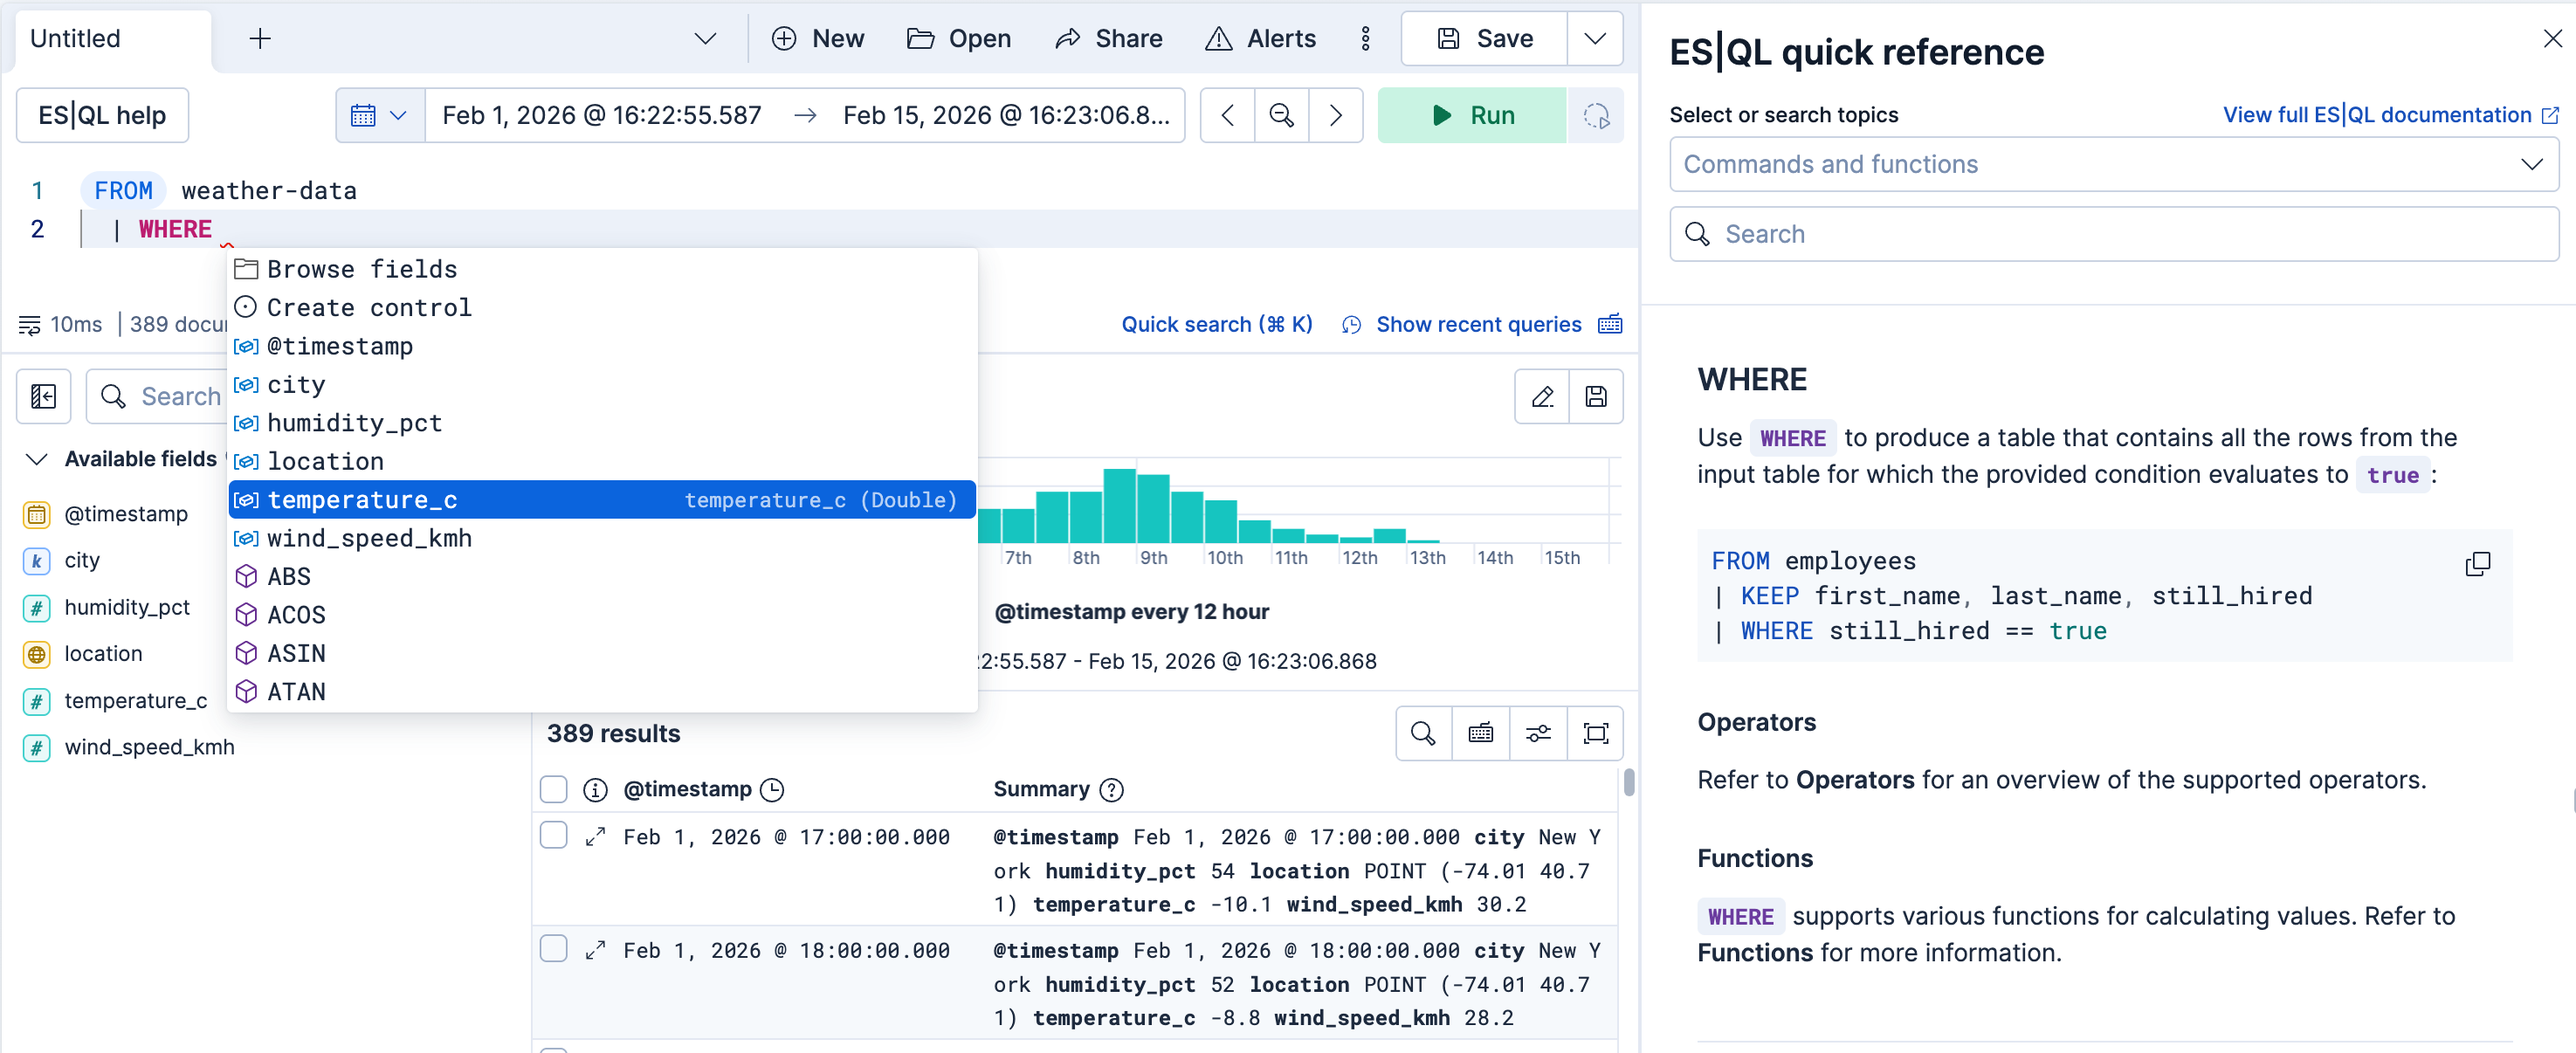
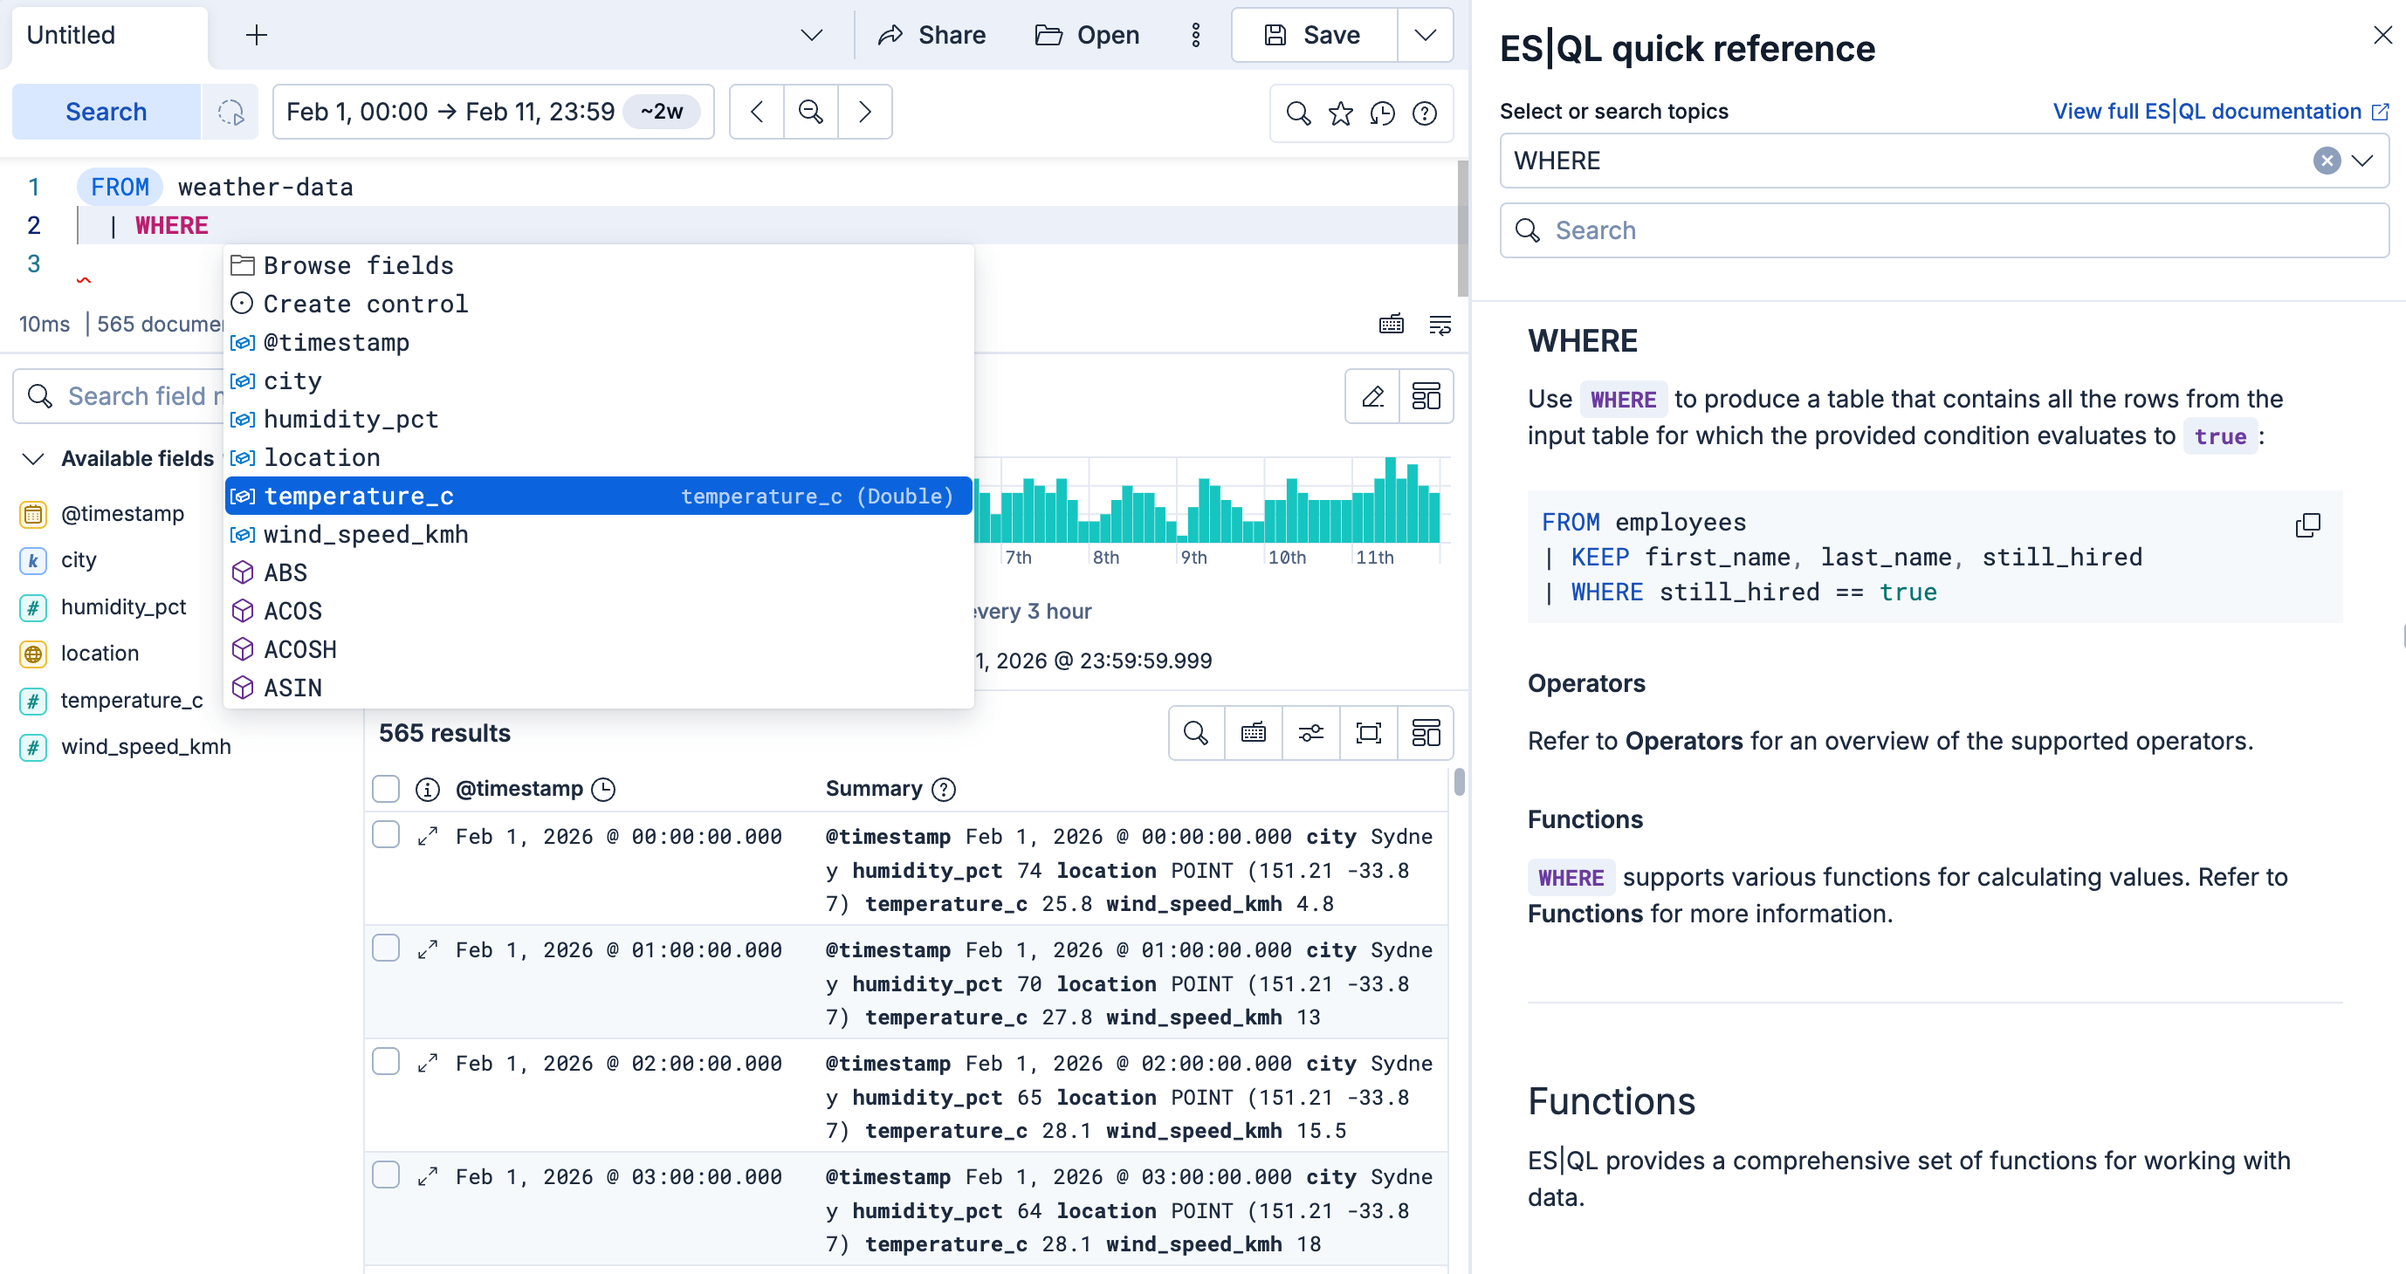
docs(esql-editor): refresh editor screenshots for the redesigned UI (#5707) (#6088)
## Summary

Closes [issue
#5707](https://github.com/elastic/docs-content/issues/5707) (ES|QL
editor redesign).

After investigating the redesign, the only user-facing changes worth
documenting are visual: the editor toolbar, the new menu
(search/star/history/help), and the relocated date picker and run
button. None of those changes affect the underlying workflows already
described in the docs, so this PR limits itself to refreshing the
affected screenshots and a small related fix.

This does not update every single screenshot that shows the editor -
other targeted updates will happen on other pages that contain ES|QL
editors (like the ES|QL viz one) separately when it'll be more timely to
do that.

### Changes

- `explore-analyze/query-filter/languages/esql-kibana.md`
- Replace the prettify, quick search, and "manage queries" GIFs with new
captures of the redesigned editor.
- Replace the in-app help screenshot with a fresh capture (full Discover
view + autocomplete + ES|QL quick reference flyout).
- `explore-analyze/_snippets/variable-control-procedure.md`
  - Replace the variable control autocomplete suggestion screenshot.
- Mention `MV_INTERSECTS` alongside `MV_CONTAINS` in the multi-value
controls description so users know both functions are supported.
- `explore-analyze/discover/try-esql.md`
- Remove the tutorial and time-series screenshots that no longer match
the current Discover layout. The screenshot under the variable controls
section is kept.

### Out of scope
[…]

diff --git a/explore-analyze/discover/try-esql.md b/explore-analyze/discover/try-esql.md
@@ -51,7 +51,6 @@ For the complete {{esql}} documentation, including all supported commands, funct
    ::::
 
 5. Select **Search** (or **▶Run** in earlier versions).
-   ![An image of the query result](/explore-analyze/images/kibana-esql-machine-os-ram.png "")
 
 Let’s add `geo.dest` to our query to find out the geographical destination of the visits and limit the results.
 
@@ -67,7 +66,6 @@ Let’s add `geo.dest` to our query to find out the geographical destination of 
    ::::{note}
    When you don’t specify any specific fields to retain using `KEEP`, the visualization isn’t broken down automatically. Instead, an additional option appears above the visualization and lets you select a field manually.
    ::::
-   ![An image of the extended query result](/explore-analyze/images/kibana-esql-limit.png "")
 
 
 We will now take it a step further to sort the data by machine RAM and filter out the `GB` destination.
@@ -83,8 +81,6 @@ We will now take it a step further to sort the data by machine RAM and filter ou
     ```
 
 2. Select **Search** (or **▶Run** in earlier versions) again. The table and visualization no longer show results for which the `geo.dest` field value is "GB", and the results are now sorted in descending order in the table based on the `machine.ram` field.
-
-    ![An image of the full query result](/explore-analyze/images/kibana-esql-full-query.png "")
 
 3. Click **Save** to save the query and visualization to a dashboard.
 
@@ -174,20 +170,12 @@ FROM kibana_sample_data_ecommerce
 | KEEP customer_first_name, email, products._id.keyword
 ```
 
-:::{image} /explore-analyze/images/kibana-esql-no-time-series.png
-:alt: ESQL query without time series capabilities enabled
-:::
-
 While still querying the same data set, by adding the `?_tstart` and `?_tend` parameters based on the `order_date` field, **Discover** enables times series capabilities.
 
 ```esql
 FROM kibana_sample_data_ecommerce
 | WHERE order_date >= ?_tstart and order_date <= ?_tend
 ```
-
-:::{image} /explore-analyze/images/kibana-esql-custom-time-series.png
-:alt: ESQL query with a custom time field enabled
-:::
 
 ## Create and edit lookup indices from queries [discover-esql-lookup-join]
 ```{applies_to}
@@ -385,8 +373,6 @@ You can go back to the classic data view and KQL mode in Discover at any time. W
 1. Open the Discover tab that you want to switch to classic mode.
 
 2. From your tab's contextual menu, select **Switch to classic**. This affects only the selected Discover tab.
-
-![Tab contextual menu with an option to switch from {{esql}} to classic mode](/explore-analyze/images/discover-switch-to-classic.png "=30%")
 
 :::{tip}
 The **Switch to classic** option only appears for the currently active tab. To see it for another tab, you must load that tab first.

diff --git a/explore-analyze/query-filter/languages/esql-kibana.md b/explore-analyze/query-filter/languages/esql-kibana.md
@@ -71,10 +71,7 @@ The {{esql}} editor includes several built-in tools to help you write queries ef
 
 For readability, you can put each processing command on a new line and add indentation. Use the {icon}`pipeBreaks` **Prettify query** button from the query editor's footer to format your query automatically. You can also adjust the editor's height by dragging its bottom border.
 
-:::{image} /explore-analyze/images/esql-line-breakdown.gif
-:alt: Automatic line breaks and indentation for ES|QL queries
-:width: 75%
-:::
+![Automatic line breaks and indentation for ES|QL queries](https://images.contentstack.io/v3/assets/bltefdd0b53724fa2ce/bltb7c28c7b10f58b68/69ebb4e4a7cffb580c9a34c5/prettify-esql.gif "=75%")
 
 #### Warnings [_warnings]
 
@@ -119,7 +116,7 @@ You can use the **Quick search** functionality of the {{esql}} editor to transla
 
 5. Refine your query with any other {{esql}} command or function that you need.
 
-![Quick search bar in the ES|QL editor](https://images.contentstack.io/v3/assets/bltefdd0b53724fa2ce/bltc8165d27051bdac3/6997303fcf7e250008e681d8/esql-quick-search.gif "=60%")
+![Quick search bar in the ES|QL editor](https://images.contentstack.io/v3/assets/bltefdd0b53724fa2ce/bltc3b8614d0ecabbd9/69ebb647065c54efe579b251/esql-quick-search-kql.gif "=60%")
 
 
 ### Commands with additional editor support
@@ -231,7 +228,7 @@ serverless: preview
 
 The {{esql}} editor keeps track of your queries so you can reuse and organize them.
 
-![ES|QL editor query history and starred queries](https://images.contentstack.io/v3/assets/bltefdd0b53724fa2ce/blt2d3183eafde13ca0/699889744357070008f66a99/query_history_starred.gif "=60%")
+![ES|QL editor query history and starred queries](https://images.contentstack.io/v3/assets/bltefdd0b53724fa2ce/blt2446c9af9847b87e/69ebb870086ade348a1acc35/esql-recent-starred.gif "=60%")
 
 ### Query history [esql-kibana-query-history]
 

diff --git a/explore-analyze/_snippets/variable-control-procedure.md b/explore-analyze/_snippets/variable-control-procedure.md
@@ -15,7 +15,7 @@
       * {applies_to}`stack: ga 9.1` Start the name with `??` if you want the options to be fields or functions.
     * The values users can select for this control. You can add multiple values from suggested fields, or type in custom values. If you selected **Values from a query**, you must instead write an {{esql}} query at this step.
     * The label of the control. This is the label displayed in **Discover** or in the dashboard.
-    * {applies_to}`stack: ga 9.4` {applies_to}`serverless: ga` Whether the control should allow selecting a single value or multiple values. This [requires using the `MV_CONTAINS` function in your query](#esql-multi-values-controls). 
+    * {applies_to}`stack: ga 9.4` {applies_to}`serverless: ga` Whether the control should allow selecting a single value or multiple values. This requires using the functions [`MV_CONTAINS` or `MV_INTERSECTS`](#esql-multi-values-controls) in your query. 
 
 3. Save the control.
 
